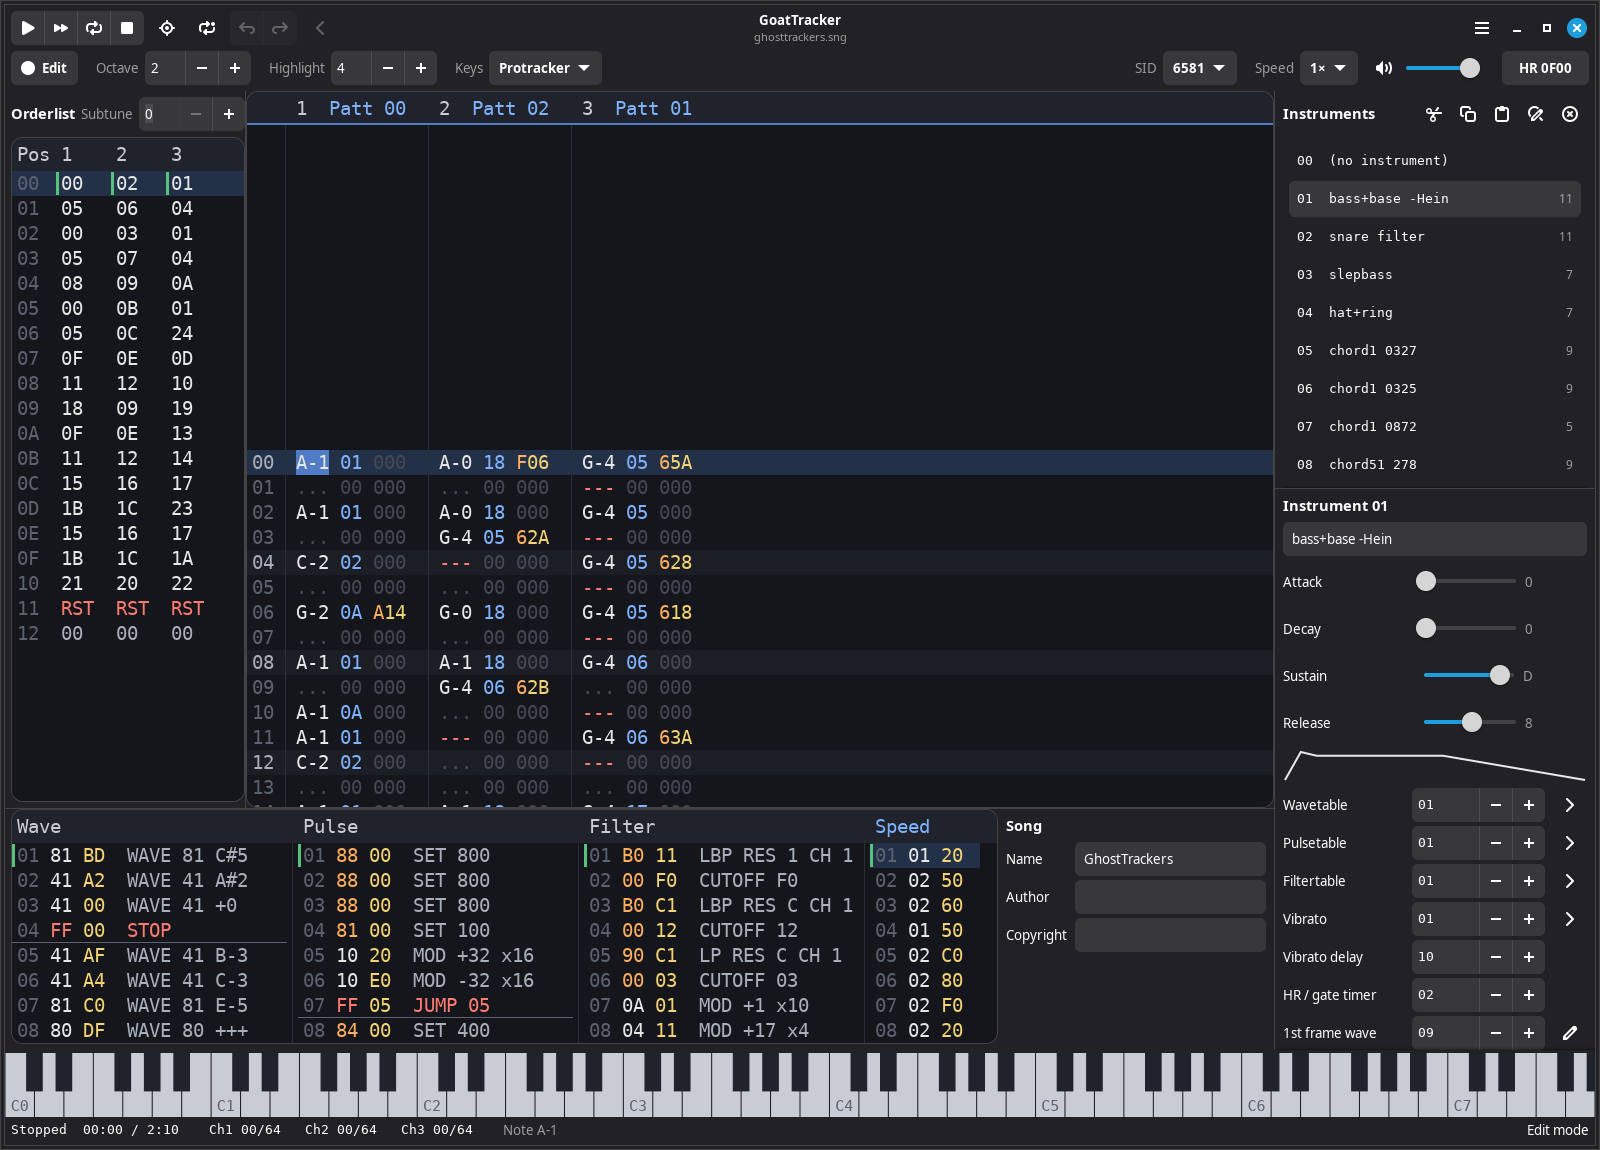
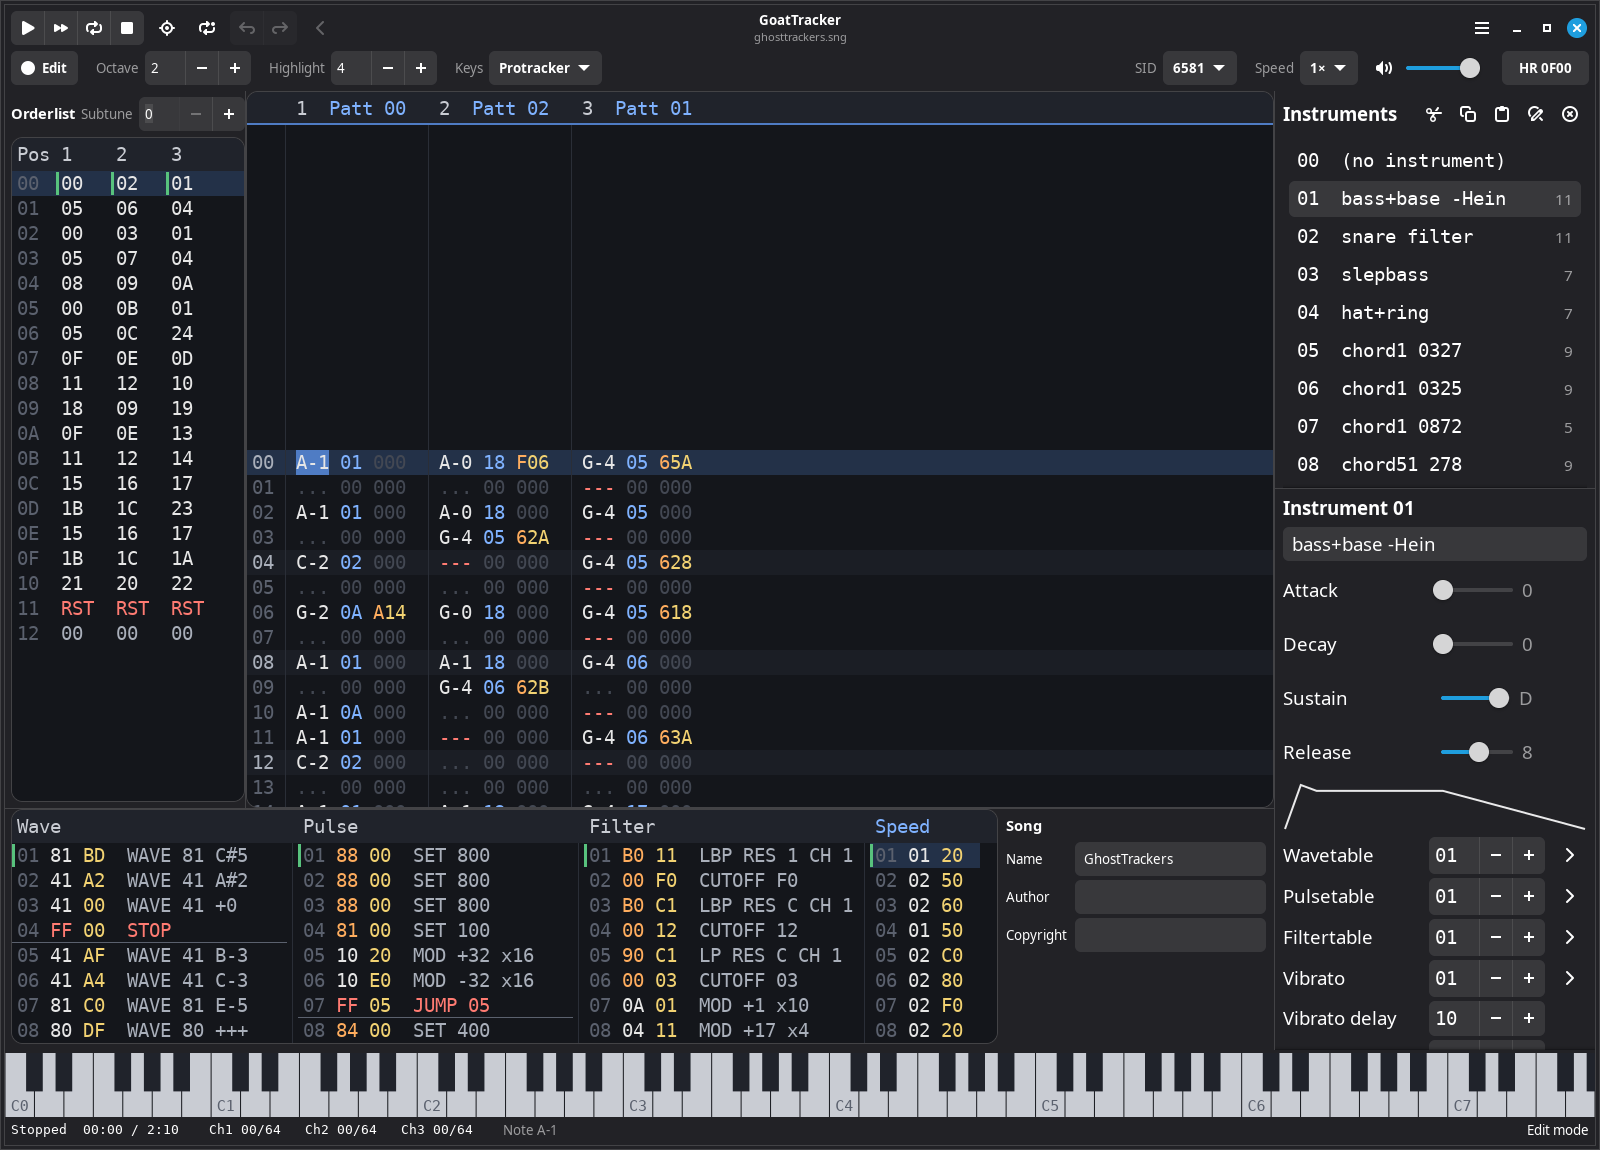
Scale the instrument list and editor with the text size
The instrument column follows View → Larger Text and -w2…-w4 like the
grids: a CSS class sets its font size, which its labels, fields,
sliders and buttons inherit, with libadwaita's fixed-size headings and
captions restated relative to it. The envelope drawing grows to match.
The large-text screenshot is retaken.

Claude-Session: https://claude.ai/code/session_01Rh9BFmLuPJBqapVh71LNhe

Changed region(s): [[0.7812, 0.0913, 0.9688, 0.6696], [0.7812, 0.5478, 0.875, 0.913], [0.9375, 0.7, 0.9688, 0.7304]]

diff --git a/src/gtkpanels.c b/src/gtkpanels.c
@@ -26,6 +26,8 @@ static GtkWidget *instrtitle;
 static GtkWidget *songentries[3];
 static GtkWidget *envelopearea;
 static int syncing = 0;
+static GtkWidget *instrroot;
+static int textscale = 1;
 static int forcesync = 0;
 
 // Undo coalescing keys: repeated edits of one field of one instrument (or
@@ -451,6 +453,41 @@ static GtkWidget *heading(const char *text)
 
 // The instrument column: the instrument list above the editor for the
 // selected instrument, with a movable divider between them
+// The instrument column follows the grids' text size (View → Larger Text):
+// a CSS class sets its font size, which every widget inside inherits, by
+// the same factor the grids use (12/10, 14/10, 16/10)
+void panels_setscale(int scale)
+{
+  static GtkCssProvider *provider = NULL;
+  static const char *classes[] = {NULL, NULL, "gt-textsize-2", "gt-textsize-3", "gt-textsize-4"};
+  int c;
+
+  textscale = CLAMP(scale, 1, 4);
+  if (!instrroot) return;
+  if (!provider)
+  {
+    // libadwaita gives headings and captions fixed sizes, so restate
+    // them relative to the scaled text
+    static const char *css =
+      ".gt-textsize-2 { font-size: 120%; } .gt-textsize-3 { font-size: 140%; } "
+      ".gt-textsize-4 { font-size: 160%; } "
+      ".gt-textsize-2 .heading, .gt-textsize-3 .heading, .gt-textsize-4 .heading { font-size: 100%; } "
+      ".gt-textsize-2 .caption, .gt-textsize-3 .caption, .gt-textsize-4 .caption { font-size: 82%; }";
+
+    provider = gtk_css_provider_new();
+#if GTK_CHECK_VERSION(4, 12, 0)
+    gtk_css_provider_load_from_string(provider, css);
+#else
+    gtk_css_provider_load_from_data(provider, css, -1);
+#endif
+    gtk_style_context_add_provider_for_display(gtk_widget_get_display(instrroot),
+      GTK_STYLE_PROVIDER(provider), GTK_STYLE_PROVIDER_PRIORITY_APPLICATION);
+  }
+  for (c = 2; c <= 4; c++) gtk_widget_remove_css_class(instrroot, classes[c]);
+  if (textscale > 1) gtk_widget_add_css_class(instrroot, classes[textscale]);
+  gtk_drawing_area_set_content_height(GTK_DRAWING_AREA(envelopearea), 36 + 8 * (textscale - 1));
+}
+
 GtkWidget *panel_instruments_new(void)
 {
   static const char *adsrnames[] = {"Attack", "Decay", "Sustain", "Release"};
@@ -539,7 +576,8 @@ GtkWidget *panel_instruments_new(void)
   }
 
   envelopearea = gtk_drawing_area_new();
-  gtk_drawing_area_set_content_height(GTK_DRAWING_AREA(envelopearea), 36);
+  instrroot = paned;
+  panels_setscale(textscale);
   gtk_drawing_area_set_draw_func(GTK_DRAWING_AREA(envelopearea), drawenvelope, NULL, NULL);
   gtk_grid_attach(GTK_GRID(grid), envelopearea, 0, row++, 3, 1);
 

diff --git a/src/gtkui.h b/src/gtkui.h
@@ -73,6 +73,7 @@ GtkWidget *monitor_sidview_new(void);
 void monitor_update(void);
 void monitor_setvisible(int showpiano, int showsidstate);
 void monitor_setscale(int scale);
+void panels_setscale(int scale);
 void ui_backupschanged(void);
 void ui_restartsound(void);
 

diff --git a/src/gtkgrid.c b/src/gtkgrid.c
@@ -136,6 +136,7 @@ void grid_setfontscale(int scale)
   fontdesc = NULL;
   updatesizes();
   monitor_setscale(fontscale);
+  panels_setscale(fontscale);
   grid_redraw();
 }
 

diff --git a/CLAUDE.md b/CLAUDE.md
@@ -29,7 +29,7 @@ make install                # copies the binaries to /usr/local/bin and the man 
 **GTK user interface.** Everything runs on GTK's main thread (audio runs in SDL's callback thread, as it always did). `gtkui.c` holds `main()`: it calls `goattrk2_init()` (config, command line, SDL audio, initial song; returns an exit status for things like `-?`), builds a single docked window, and calls `goattrk2_shutdown()` (stop sound, save config) on quit. The UI keeps no copy of the editor state: it draws and edits the engine's globals (`epchn`, `eppos`, `einum`, `editmode`, ...).
 - `gtkui.c`: window layout (orderlist | pattern | instrument column, tables and song info below), toolbar, menus, status bar, the 20 ms tick that drives follow-play and redraws during playback, and keyboard routing. Keys on the grids are translated to the engine's key codes and fed through `runkey()` → `docommand()`, so every classic key command still works. Keys stay with GTK while a text field, dialog or menu has focus (function keys excepted). Focusing a panel sets `editmode`, and `ui_focuseditmode()` moves focus when a command changes it.
 - `gtkgrid.c`: the pattern, orderlist and table editors as custom-drawn `GtkDrawingArea`s (Pango monospace font, tracker colours). The orderlist is drawn vertically, so `orderlistcursor()` in `gtkui.c` rotates the arrow keys. Mouse handling: a drag gesture places the cursor and sets the engine's mark variables (`epmark*`, `esmark*`, `etmark*`); right-click opens a `GtkPopoverMenu` whose items run classic keys through `ui_runkey()` (see the `GRIDITEM` tables). View model: keyboard input, follow play and undo call `grid_followcursor()`, which keeps the pattern and orderlist centred on the cursor; mouse clicks, drags and the wheel switch that off so the view stays put under the pointer.
-- `gtkpanels.c`: instrument list (with the Shift+X/C/V/S/Del commands) and the native instrument editor; song name/author/copyright entries. Song and instrument names are Latin-1; convert with `ui_toutf8()`/`ui_fromutf8()`.
+- `gtkpanels.c`: instrument list (with the Shift+X/C/V/S/Del commands) and the native instrument editor; song name/author/copyright entries. `panels_setscale()` (called from `grid_setfontscale()`) scales the instrument column with the grids' text size through a `gt-textsize-N` CSS class; font size inherits in GTK CSS, and libadwaita's fixed-size `heading` and `caption` styles are restated relative to it. Song and instrument names are Latin-1; convert with `ui_toutf8()`/`ui_fromutf8()`.
 - `gtkdialogs.c`: implements the hooks in `gui.h` that the engine's command handlers call (`ui_quit`, `ui_clear`, `ui_help`, `ui_editadsr`, `ui_relocator`, `ui_load`, `ui_save`) with non-blocking libadwaita dialogs and `GtkFileDialog`. The engine must never block waiting for input.
 - Key codes (`KEY_xxx` in `bme/bme_main.h`) are the ASCII value of the unshifted character, or `BME_XKEY(keysym)` (256 + the low byte of the X11/GDK keysym). They must stay below `MAX_KEYS` (512).
 - Packer options beyond stock: `packplayorder` (patterns numbered by first appearance in the orderlists; `gt2reloc -Q1`) and `PLAYER_ZPPLAYSID` (the `ZPPLAYSID` conditional in `player.s`/`altplayer.s`, which copies the zeropage ghostregs to the SID each frame; `gt2reloc -K1`). Both are off by default; keep the default output byte-identical to stock.

diff --git a/README.md b/README.md
@@ -174,7 +174,7 @@ The keyboard reference (**F12**) is a help window; **Shift+F12** puts the curren
 
 ### Bigger text when you want it
 
-The grids use a scalable monospace font. **View → Larger Text** (or `-w2`…`-w4` on the command line) makes the grids, the piano keyboard and the SID registers bigger, and the window can be any size. The screenshot below is at the third size, the same song as above.
+The grids use a scalable monospace font. **View → Larger Text** (or `-w2`…`-w4` on the command line) makes the grids, the instrument list and editor, the piano keyboard and the SID registers bigger, and the window can be any size. The screenshot below is at the third size, the same song as above.
 
 ![Larger text in a larger window](docs/screenshots/large-text.png)
 
